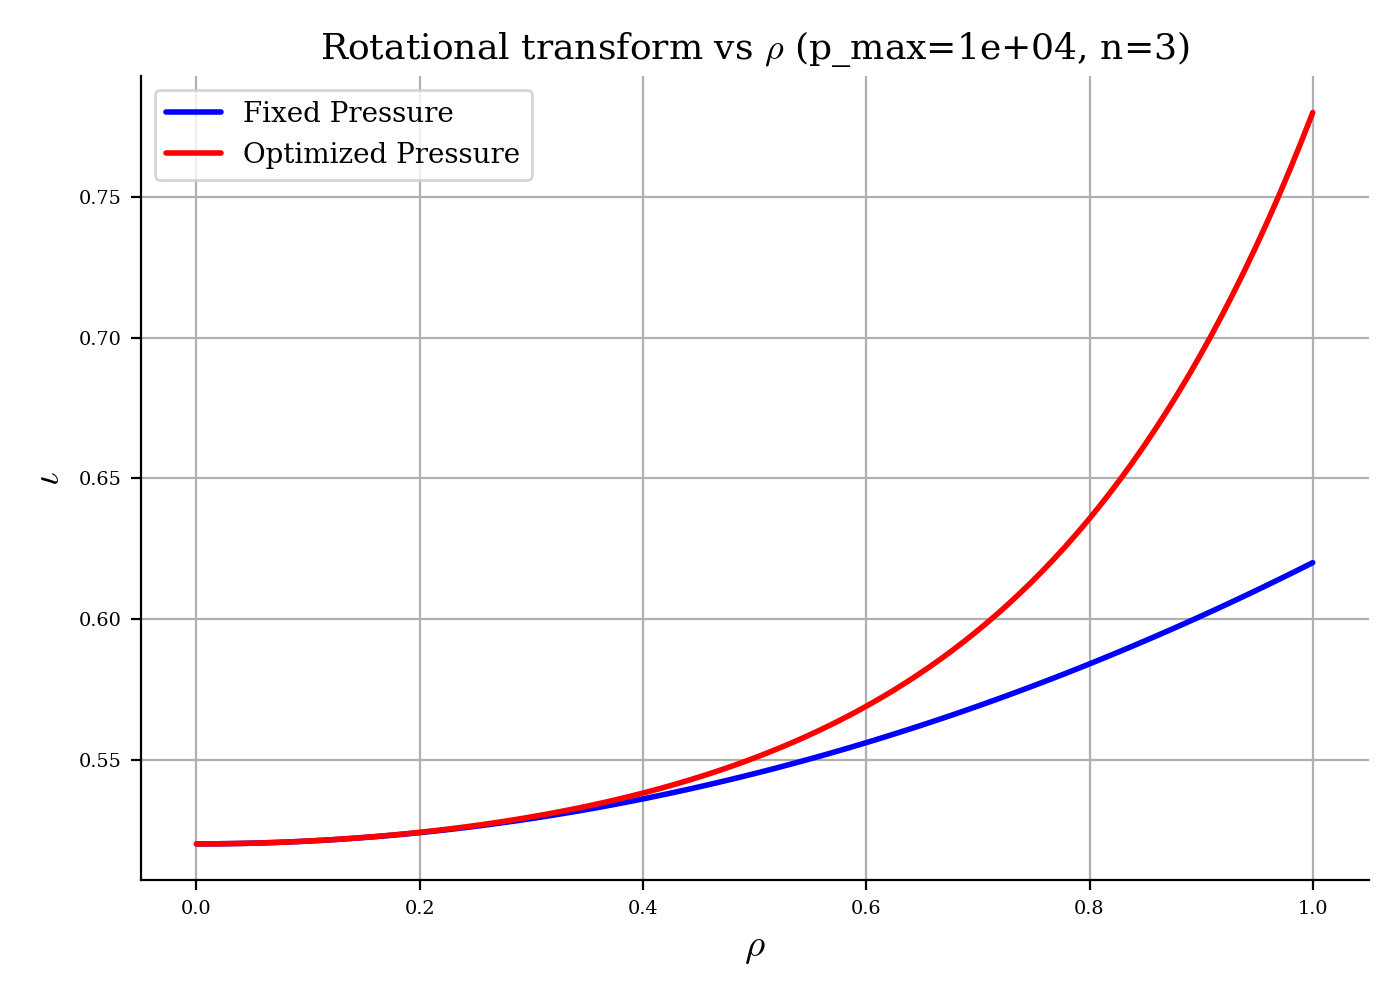
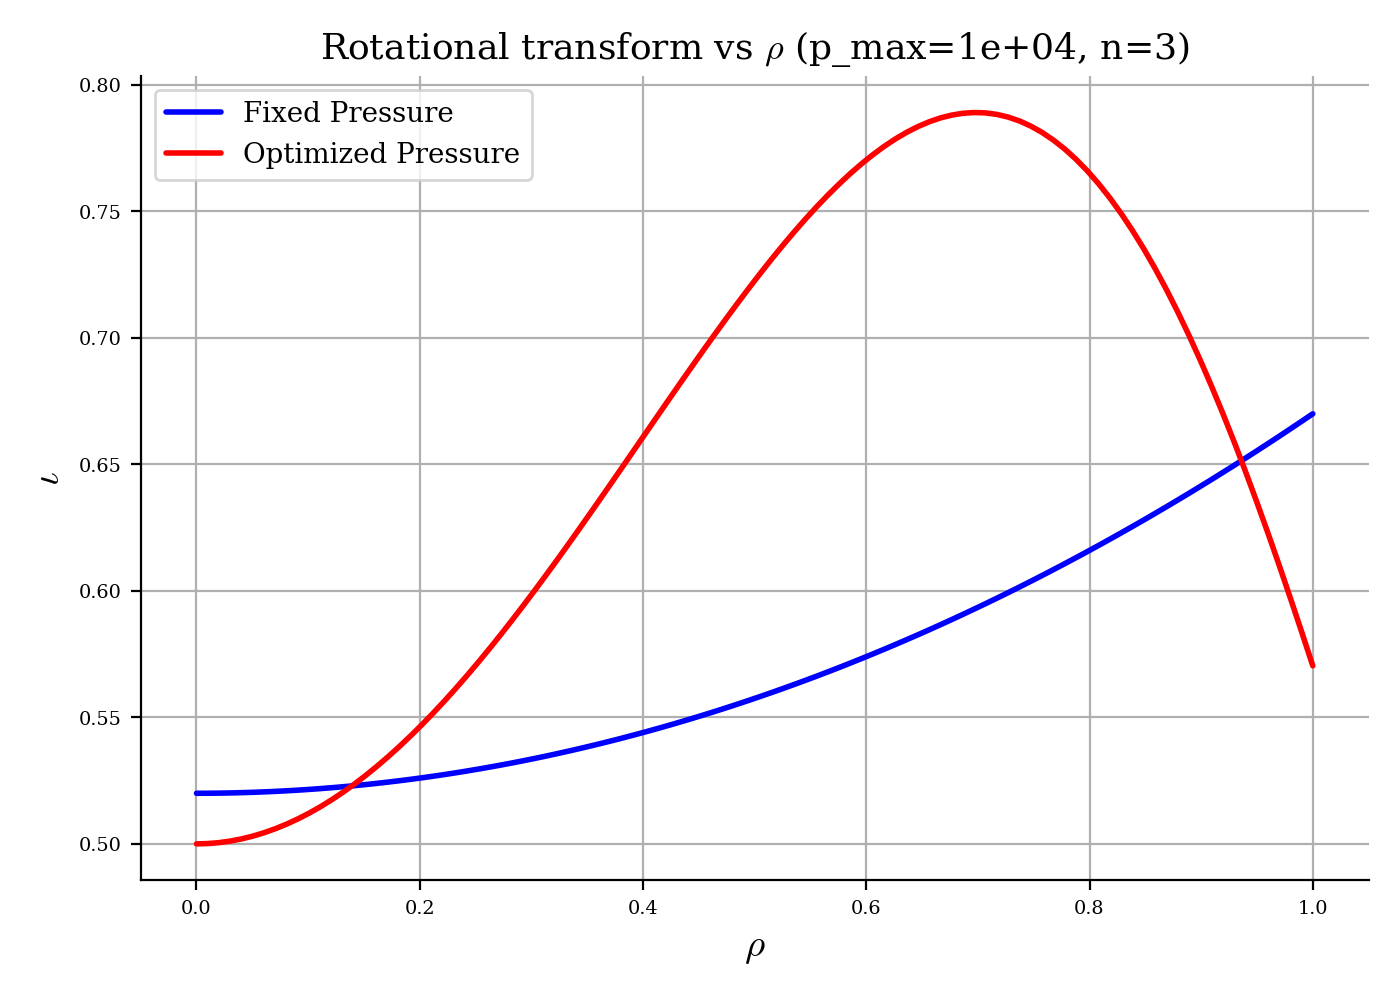
Need to understand how the fuck optimizer is taking a quadratic PowerSeriesProfile and manipulating it so hard. Bounds also not really working

diff --git a/research/poly/continuation/config.py b/research/poly/continuation/config.py
@@ -32,9 +32,9 @@ from research.poly.poly_constraints import (
     pressure_monotonicity,
     iota_edge,
     iota_axis,
-    iota_rational_range,
     grad_iota_axis,
-    iota_plateau,
+    iota_axis_bounds,
+    iota_edge_bounds
 )
 from .driver import run_from_config
 from .opt import resolve_from_context
@@ -92,17 +92,7 @@ def iota_between_rationals(
 
 
 #=======================
-def iota_plateau_target(
-        iota_edge,
-        island_chain: bool,
-    ):
-    """
-    Takes a desired iota value on the edge,
-    and generates the corresponding location,
-    and iota value for a magnetic island which
-    can be chosen to be within the plasma. 
-    """
-    
+
 
 #===================================================================================================================================================
 
@@ -136,8 +126,8 @@ surface_init = FourierRZToroidalSurface(
 
 #-------------------
 # Initializing iota:
-iota_axis = 0.52
-iota_init = PowerSeriesProfile([iota_axis, 0, 0.1, 0])
+iota_init_axis = 0.52
+iota_init = PowerSeriesProfile([iota_init_axis, 0, 0.15])
 #-----------------------------------------------------
 
 #------------------------
@@ -179,15 +169,14 @@ target_aspect_ratio = 6
 
 #--------------
 # Iota targets:
-iota_lower, iota_upper = iota_between_rationals(iota_axis = iota_axis)
-
+iota_lower, iota_upper = iota_between_rationals(iota_axis = iota_init_axis)
 #----------------------
 # Optimizer thresholds:
 ftol = 5e-4
 xtol = 1e-4
 gtol = 1e-3
 ctol = 1e-10
-maxiter = 0
+maxiter = 4
 #----------
 #==========
 
@@ -288,6 +277,7 @@ opt_toggles = [
                 "use": False,
                 "kwargs": {},
             },
+
                 # Custom:
             "pressure_axis": {
                 "use": True,
@@ -329,20 +319,20 @@ opt_toggles = [
                     "target": 0.0,
                 },
             },
+            "iota_axis": {
+                "use": True, ###############
+                "kwargs": {
+                    "name": "iota_axis",
+                    "fun": iota_axis,
+                    "target": (iota_lower),
+                },
+            },    
             "iota_edge": {
                 "use": False, ###############
                 "kwargs": {
                     "name": "iota_edge",
                     "fun": iota_edge,
-                    "target": iota_upper,
-                },
-            },
-            "iota_plateau": {
-                "use": True, ###############
-                "kwargs": {
-                    "name": "iota_plateau",
-                    "fun": iota_plateau,
-                    "target": 0.4,
+                    "target": (iota_upper),
                 },
             },
             #---------------------
@@ -385,15 +375,38 @@ opt_toggles = [
                     "target": 0.0,
                 },
             },
+
                 # Custom:
             "pressure_monotonicity": {
                 "use": True,
                 "kwargs": {
                     "name": "pressure_monotonicity",
                     "fun": pressure_monotonicity,
-                    "grid": LinearGrid(rho=200, M=0, N=0),
                     "target": 0.0,
+                    "grid": LinearGrid(rho=200, M=0, N=0),
                     "normalize": False,
+                    "weight": 1e0,
+                },
+            },
+            "iota_axis_bounds": {
+                "use": False, ###############
+                "kwargs": {
+                    "name": "iota_axis_bounds",
+                    "fun": iota_axis_bounds,
+                    "bounds": (iota_lower, iota_upper),
+                    "grid": LinearGrid(rho=200, M=0, N=0),
+                    "normalize": False,                    
+                    "weight": 1e0,
+                },
+            },
+            "iota_edge_bounds": {
+                "use": True, ###############
+                "kwargs": {
+                    "name": "iota_edge_bounds",
+                    "fun": iota_edge_bounds,
+                    "bounds": (iota_lower, iota_upper),
+                    "grid": LinearGrid(rho=200, M=0, N=0),
+                    "normalize": False,                    
                     "weight": 1e0,
                 },
             },

diff --git a/research/poly/poly_constraints.py b/research/poly/poly_constraints.py
@@ -173,27 +173,30 @@ def grad_iota_axis(params):
     c = params["i_l"] 
     return c[1]
 #--------------
-
-#---------------------------
-def iota_plateau(params):
-    """
-    For a cubic PowerSeriesProfile in iota,
-    with zero axis gradient (c[1] = 0),
-
-    """
-    c = params['i_l']
-    rho = islands_loc
-    iota = (3*c[3]*rho**3 + 2*c[2]*rho**2 +
-    return plat
-#--------------
 #==============
 
 
 
 #============
 # Objectives:
+#--------------------------
+def iota_axis_bounds(grid, data):
+    """
+    
+    """
+    iota = data['iota']
+    return iota[0]
+#---------------------
 
-#====================
+#--------------------------
+def iota_edge_bounds(grid, data):
+    """
+
+    """
+    iota = data['iota']
+    return iota[-1]
+#---------------------
+#=====================
 #===================================================================================================================================
 
 

diff --git a/research/poly/continuation/opt.py b/research/poly/continuation/opt.py
@@ -255,6 +255,18 @@ OBJECTIVE_REGISTRY_CON = {
             "thing": _eq,
         },
     },
+    "iota_axis_bounds":{
+        "wrapper": ObjectiveFromUser,
+        "defaults": {
+            "thing": _eq,
+        },
+    },
+    "iota_edge_bounds":{
+        "wrapper": ObjectiveFromUser,
+        "defaults": {
+            "thing": _eq,
+        },
+    },
 }
 
 
@@ -347,7 +359,7 @@ CONSTRAINT_REGISTRY_CON = {
             "thing": _eq,
         },
     },
-    "iota_plateau": {
+    "iota_axis": {
         "wrapper": LinearObjectiveFromUser,
         "defaults": {
             "thing": _eq,
